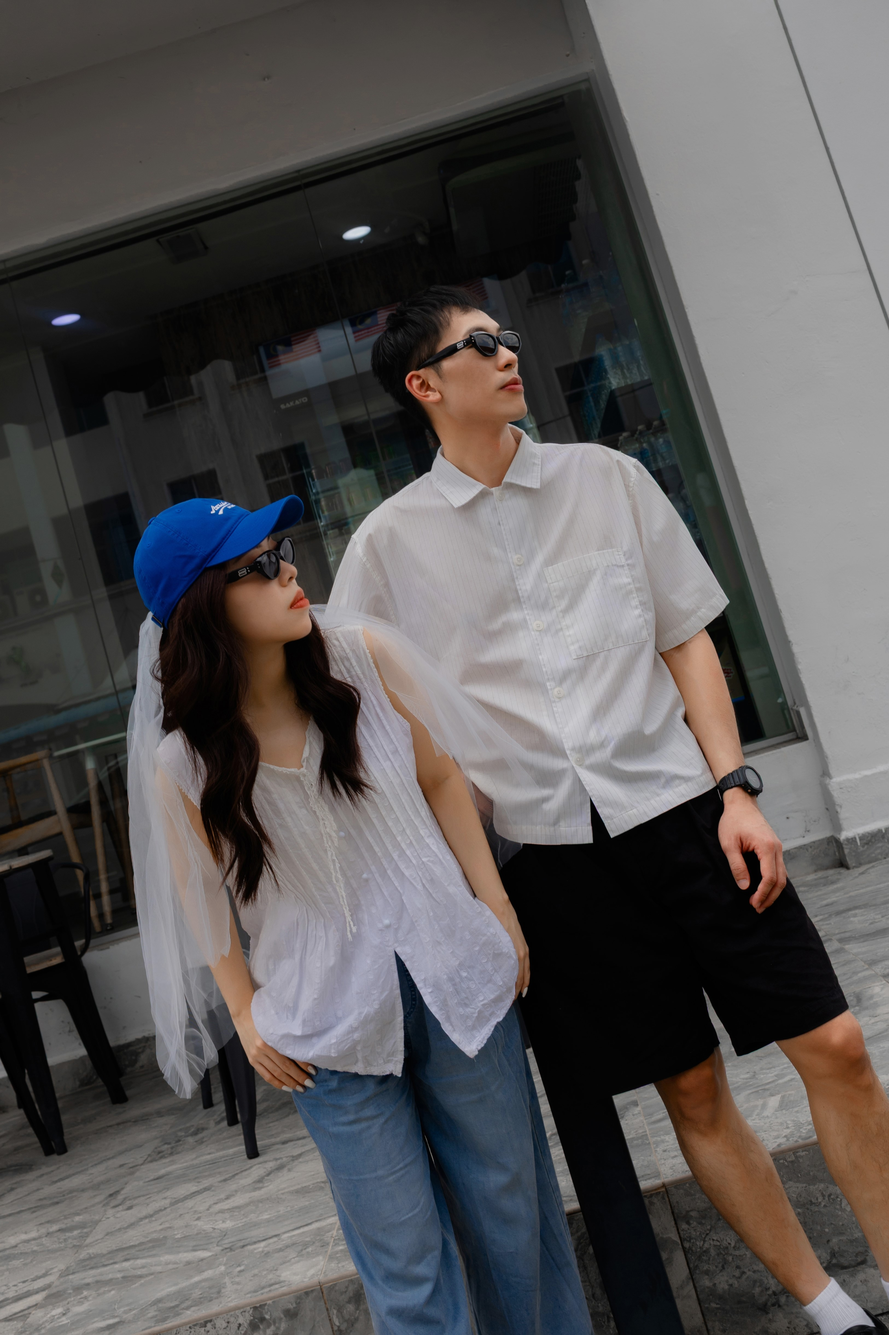
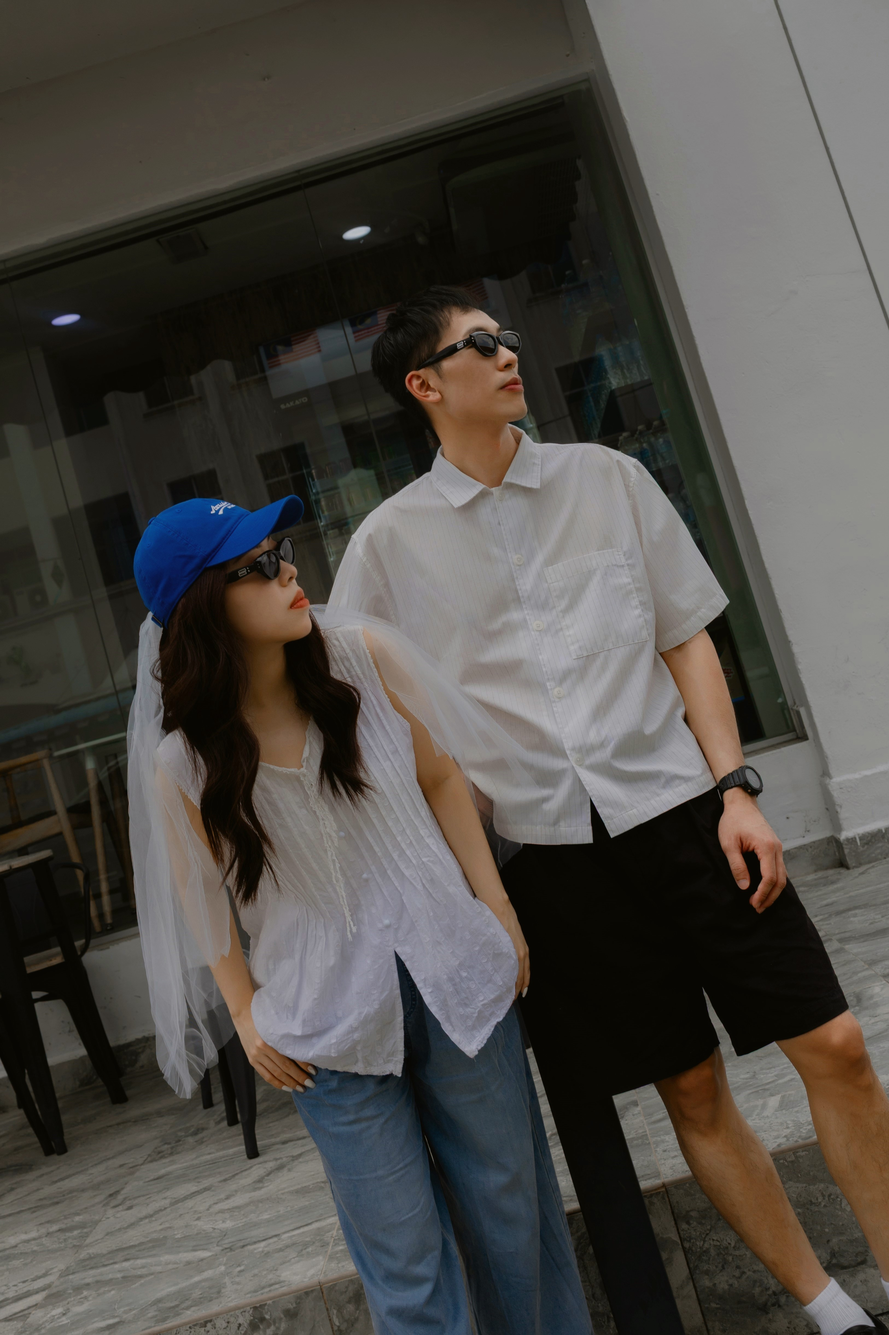
更新内容

diff --git a/app/globals.css b/app/globals.css
@@ -38,6 +38,14 @@ body {
 #backgroundWedding {
   background-size: cover;
   background-position: center;
+  background-image: url(../public/foto_1.jpg);
+  background-repeat: no-repeat;
+  background-color: #0a0a0a;
+}
+/*
+#backgroundWedding {
+  background-size: cover;
+  background-position: center;
   background-image: url(../public/foto_2.jpg);
   background-repeat: no-repeat;
   transition: 5s;
@@ -54,7 +62,7 @@ body {
 @keyframes animate {
  0% {
   background-image: url(../public/foto_2.jpg);
- }
+ }  
  45% {
   background-image: url(../public/foto_4.jpg);
  }
@@ -69,7 +77,7 @@ body {
 #backgroundWedding > div {
   animation: fade 5s infinite;
 }
-
+/*
 /* Animasi fade-in dan gerakan */
 .fadeMain {
   opacity: 0;
